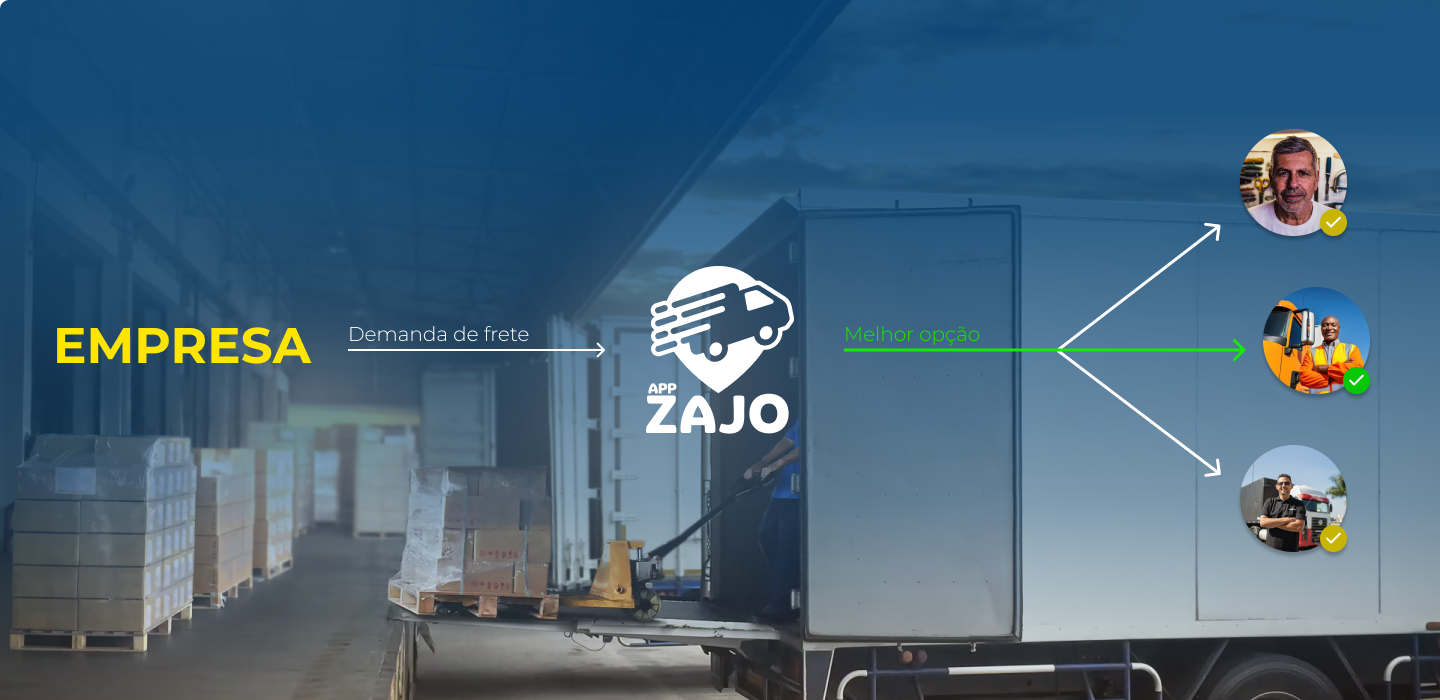
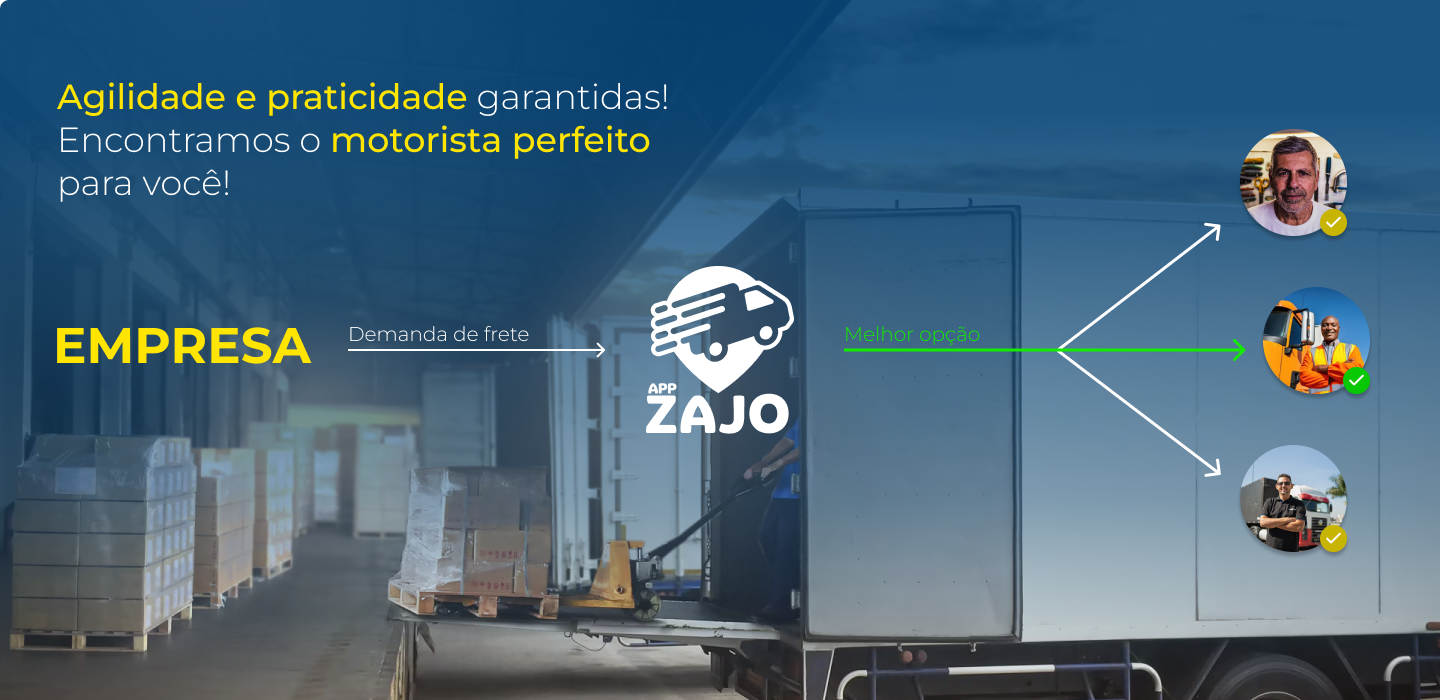
commit 25051710
melhorei as secoes de motorista e empresa

Changed region(s): [[0.0312, 0.12, 0.4688, 0.24], [0.0312, 0.24, 0.1562, 0.3]]

diff --git a/index.html b/index.html
@@ -75,7 +75,7 @@
                         <input type="text" id="nome" name="nome"><br><br>
                         <label for="telefone">Celular (Whatsapp) </label><br>
                         <input type="text" id="telefone" name="telefone"><br><br>
-                        <input type="submit" value="Enviar">
+                        <input class="btn-action" type="submit" value="Enviar">
                     </form>
                 </div>
             </div>
@@ -95,6 +95,10 @@
                     trazendo sua imagem <br>
                     profissional mais próxima as <br>
                     <span style="color:#FFE500">empresas de frete.</span></p>
+                    <a id="btn-quero-qualificacao" class="btn-action link-action" href="#venha-fazer-parte">
+                        <img id="truck-eu-quero" src="imgs/icon-truck-eu-quero.png" alt="">
+                        Quero fazer parte
+                    </a>
                 </div>
             </div>
 
@@ -111,14 +115,68 @@
                         <li>Empresas bem avaliadas</li>
                     </ul>   
                 </div>
+                <a id="btn-quero-economia-tempo" class="btn-action link-action" href="#venha-fazer-parte">
+                    <img id="truck-eu-quero" src="imgs/icon-truck-eu-quero.png" alt="">
+                    Quero fazer parte
+                </a> 
             </div>
-                            
+                      
         </section>
 
         <section id="empresa" class="company-section">
             <h1 class="title vantagens">Vantagens para a sua empresa!</h1><br>
-            <img src="imgs/descubra a revolução.png" alt="">
+            <div class="image-container">
+                <img src="imgs/descubra a revolução.png" alt="">
+                <div class="text-overlay-descubra">
+                    <h1 id="descubra-h1">Descubra a <span style="color:#FFE500">REVOLUÇÃO</span> no <br>
+                     transporte de carga com a <span style="color: #FFE500;">Zajo</span>!</h1> <br>
+                    <p>Encontre os motoristas mais <br> <span style="color: #FFE500;">qualificados</span> em apenas um clique! <br>
+                    Com <span style="color: #FFE500;">perfis personalizados</span>, otimize <br>
+                seus fretes e leve sua empresa para o <br>
+            próximo nível!</p>
+                </div>
+                <a id="btn-quero-descubra" class="btn-action link-action" href="#venha-fazer-parte">
+                    <img id="truck-eu-quero" src="imgs/icon-truck-eu-quero.png" alt="">
+                    Quero fazer parte
+                </a>
+            </div> <br>
+
+            <div class="image-container">
+                <img src="imgs/Tela de Segurança.png" alt="">
+                
+                <p id="zajo-segurança">Com a <strong>Zajo</strong>, segurança é 
+                    <span style="color: #FFE500;">prioridade</span>.</p>
+
+                <div id="text-box-seguranca">
+                    <p>Montamos perfis completos para todos os <br>
+                    caminhoneiros, com documentos <br>
+                    autênticos e verificados. <br> <br>
+                    Além disso, oferecemos às empresas a <br> 
+                    possibilidade de filtrar os motoristas de <br>
+                    acordo com suas <strong>
+                        necessidades e <br>
+                        requisitos específicos.
+                    </strong></p>
+                </div>
+                <a id="btn-quero-seguranca" class="btn-action link-action" href="#venha-fazer-parte">
+                    <img id="truck-eu-quero" src="imgs/icon-truck-eu-quero.png" alt="">
+                    Quero fazer parte
+                </a>
+            </div> <br>
+
+            <div class="image-container">
+                <img src="imgs/Tela agilidade e praticidade.png" alt="">
+                
+                <a id="btn-quero-agilidade" class="btn-action link-action" href="#venha-fazer-parte">
+                    <img id="truck-eu-quero" src="imgs/icon-truck-eu-quero.png" alt="">
+                    Quero fazer parte
+                </a>
+            </div>
+            
+     
+
         </section>
+        
 
         <section id="quem-somos" class="second-section">
             <h1 class="title">Quem somos</h1>

diff --git a/styles.css b/styles.css
@@ -23,17 +23,17 @@ body{
     overflow-x: hidden;
 }
 
-header{
+header {
     display: flex;
-    justify-content:space-around;
-    align-items:center;
+    justify-content: space-around;
+    align-items: center;
     gap: 1rem;
     flex-wrap: wrap;
     padding: .8rem;
     min-height: 50px;
-    background-color: #f7fcff;
     background: linear-gradient(to left, #03427517, #f1f8fd);
 }
+
 
 #venha-fazer-parte-paragrafo{
     font-size: 1.2rem;
@@ -71,6 +71,9 @@ nav{
     text-underline-offset: .5rem;
     
 }
+
+
+
 
 .box-btn-actions{
     display: flex;
@@ -258,6 +261,7 @@ footer > div{
     justify-content: center;
     text-align: center; /* Opcional, se você quiser centralizar o texto também */
     padding: 1rem;
+    position: relative;
 }
 
 
@@ -363,6 +367,7 @@ input[type="submit"] {
 .third-section .image-container {
     position: relative;
     display: inline-block;
+    overflow: hidden;
 }
 
 .third-section .image-container img {
@@ -370,6 +375,21 @@ input[type="submit"] {
     width: 100%;
     height: auto;
     margin: 10px;
+    
+}
+
+.image-container img{
+    transition: filter 0.3s ease; /* Adiciona uma transição suave */
+    display: block;
+    width: 100%;
+    height: auto;
+    transition: transform 0.5s ease; /* Adiciona uma transição suave */
+}
+
+.image-container:hover img {
+    filter:brightness(115%); /* Reduz a luminosidade da imagem quando o mouse passa sobre ela */
+    transform: scale(1.01); /* Aumenta ligeiramente o tamanho da imagem quando o mouse passa sobre ela */
+
 }
 
 .third-section .text-overlay {
@@ -424,6 +444,119 @@ input[type="submit"] {
     font-size: 4rem;
     font-weight: normal;
 }
+
+
+#descubra-h1 {
+    font-size: 1.5em; /* Ajuste conforme necessário */
+    margin-bottom: 10px;
+    color: white;
+    line-height: 1.2;
+}
+
+.text-overlay-descubra{
+    position: absolute;
+    top: 300px; /* Ajuste conforme necessário */
+    left: 300px; /* Ajuste conforme necessário */
+    color: white; /* Ajuste a cor do texto conforme necessário */
+    /*background-color: rgba(0, 0, 0, 0.5); /* Fundo semitransparente para melhor legibilidade */
+    font-size: 2rem;
+    font-weight: bold;
+    text-align: left;
+}
+
+
+#text-box-seguranca{
+    position: absolute;
+    bottom: 920px; /* ou qualquer valor que desejar */
+    left: 900px; /* ou qualquer valor que desejar */
+    background-color: var(--yellow); /* Cor de fundo com transparência */
+    color: var(--blue); /* Cor do texto */
+    padding: 30px; /* Espaçamento interno */
+    border-radius: 5px; /* Borda arredondada */
+    text-align: left;
+    font-size: 1.5em;
+    line-height: 1.5;
+}
+
+#zajo-segurança{
+    position: absolute;
+    z-index: 1; /* Para garantir que o texto fique acima da imagem */
+    bottom: 1300px; /* ou qualquer valor que desejar */
+    left: 330px; /* ou qualquer valor que desejar */
+    color: white; /* Cor do texto */
+    font-size: 1.1rem; /* Tamanho da fonte */
+    /* Adicione outras propriedades de estilo conforme necessário */
+
+}
+
+.text-overlay-agilidade{
+    position: absolute;
+    top: 300px; /* Ajuste conforme necessário */
+    left: 300px; /* Ajuste conforme necessário */
+    color: white; /* Ajuste a cor do texto conforme necessário */
+    /*background-color: rgba(0, 0, 0, 0.5); /* Fundo semitransparente para melhor legibilidade */
+    font-size: 2rem;
+    font-weight: bold;
+    text-align: left; 
+}
+
+
+#qualificacao-h1:hover{
+    transform: scale(1.01);
+}
+
+.image-container p:hover{
+    transform: scale(1.01);
+}
+
+#economia-tempo-h2:hover{
+    transform: scale(1.01);
+}
+
+.image-container h1:hover{
+    transform: scale(1.01);
+}
+
+
+#btn-quero-qualificacao{
+    margin-top: 100px;
+    width: 270px;
+}
+
+#btn-quero-economia-tempo{
+    position: absolute;
+    top: 600px;
+    left: 100px;
+    width: 270px;
+}
+
+#btn-quero-descubra{
+    position: absolute;
+    top: 800px;
+    left: 300px;
+    width: 270px;
+}
+
+#btn-quero-seguranca{
+    position: absolute;
+    top: 1500px;
+    left: 300px;
+    width: 270px;
+}
+
+#btn-quero-agilidade{
+    position: absolute;
+    top: 2200px;
+    left: 300px;
+    width: 270px;
+}
+
+
+
+
+
+
+
 
 
 
